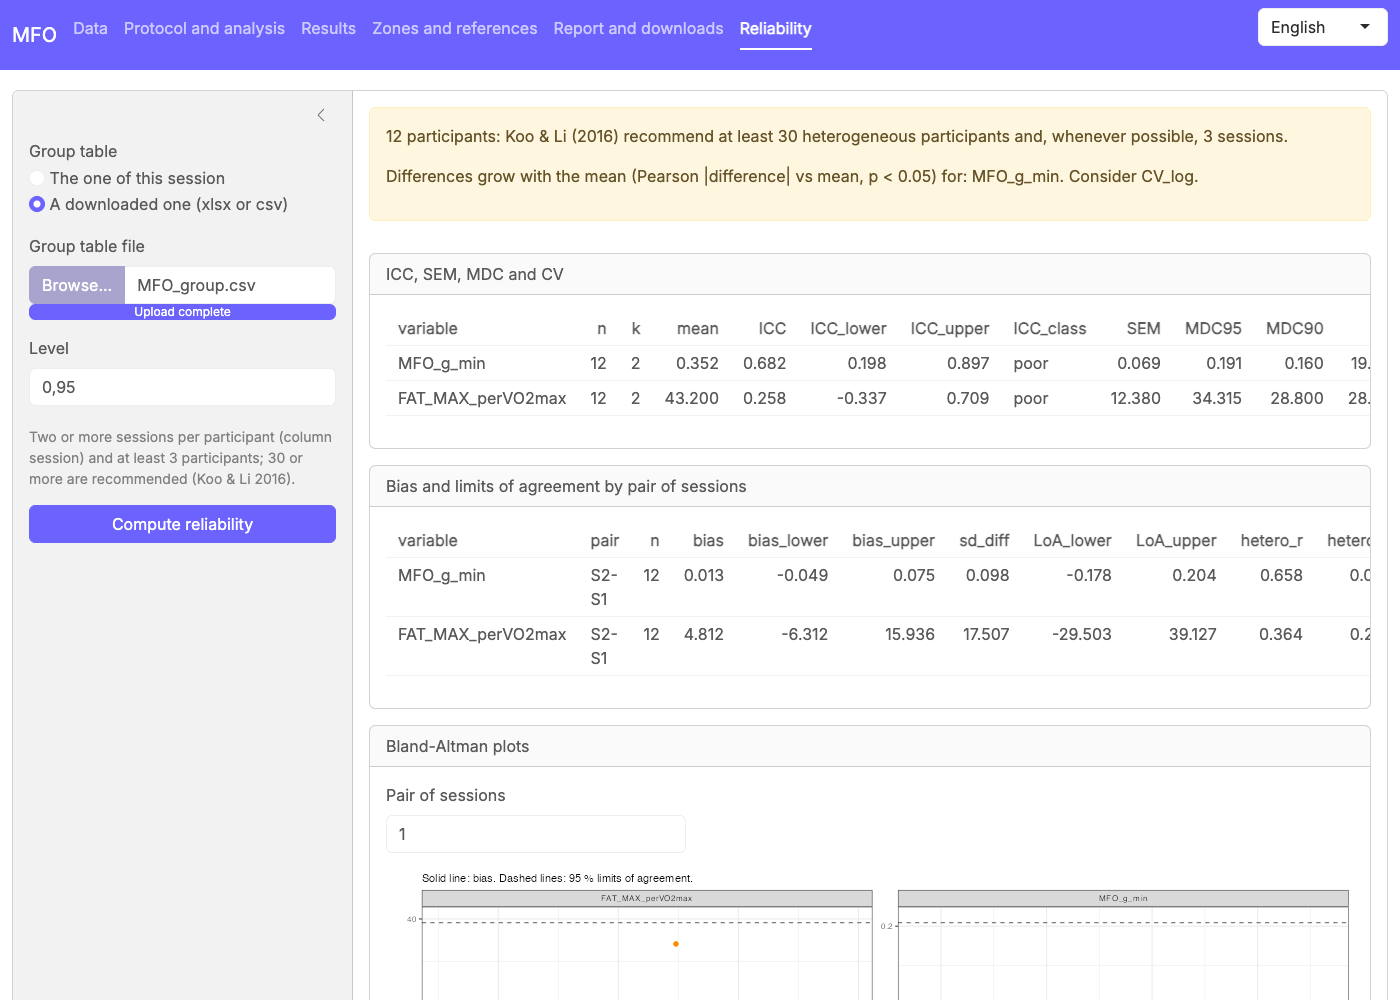
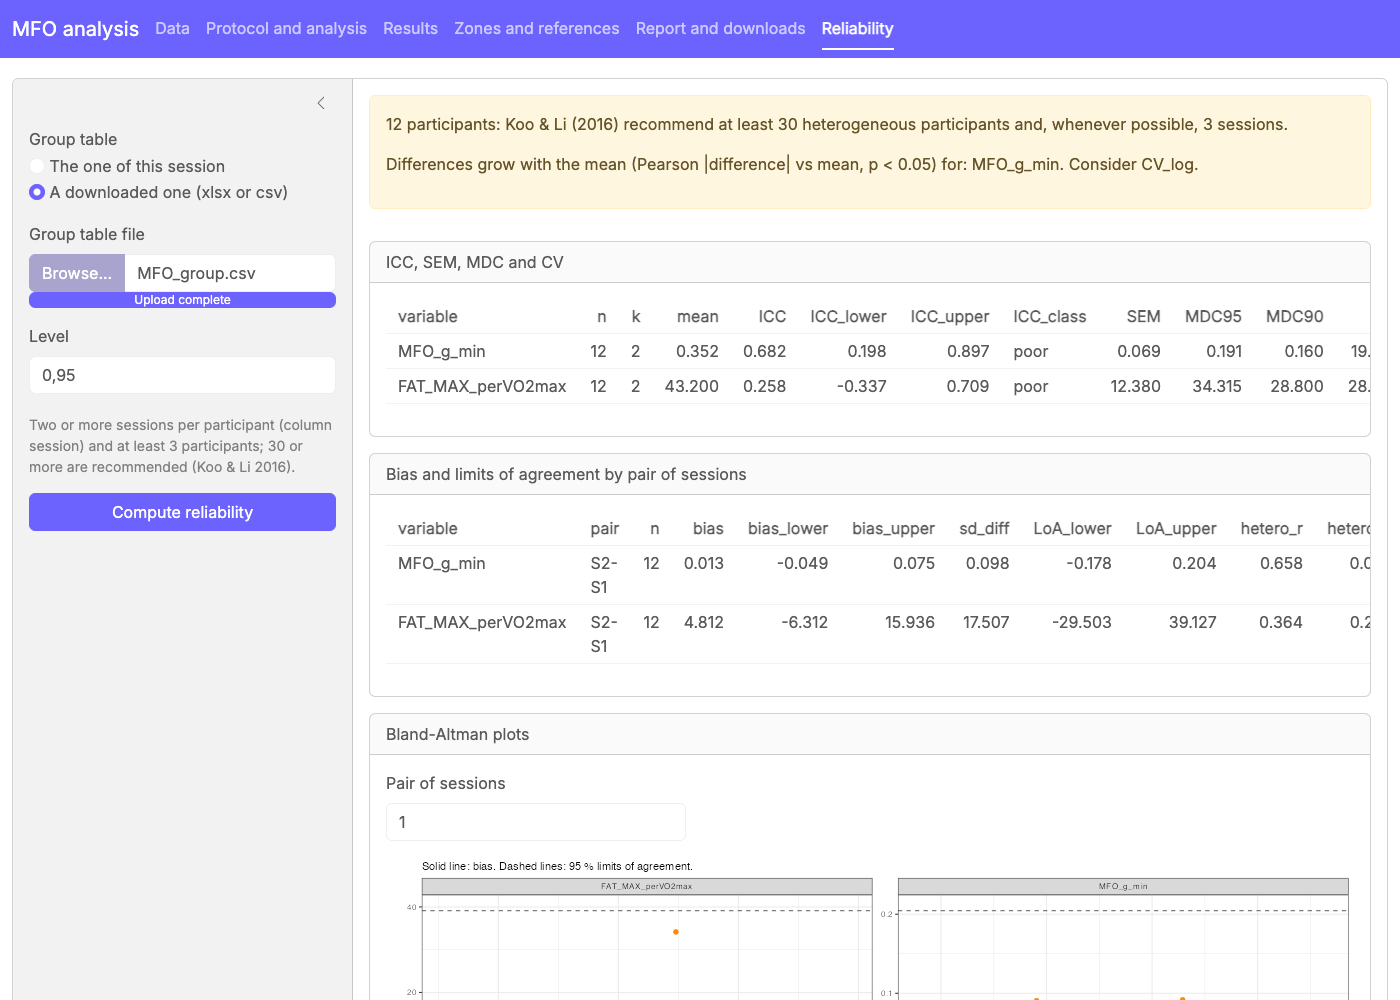
docs: manual, vignette, README and screenshots for the second review
The manual (English only) describes the tables of the Data tab, the steps
of the fit under the oxidation curve, the figure downloads and Save as
PDF; vignette("app") and NEWS likewise. Screenshots regenerated with the
"MFO analysis" navbar; README rebuilt (its plots now have the VO₂max axis
with only the 2 as subscript). SPEC 10.

diff --git a/NEWS.md b/NEWS.md
@@ -23,13 +23,16 @@
 * `run_app()` opens the Shiny app of the package (SPEC 10, #24), which only
   calls the package's functions and runs locally. `shiny` and `bslib` are
   in Suggests. Interface in English (all strings in `inst/app/i18n.csv`, one
-  column per language, so a translation is one more column). This first step has the Data tab: example
+  column per language, so a translation is one more column). The navbar reads "MFO analysis". The Data tab: example
   data, csv/xlsx files with column mapping or analyser exports (several
   files or a zip), phases by table or by cuts dragged on the VO2 plot, and
-  every message and warning of the reading shown as an alert. The Protocol
+  every message and warning of the reading shown as an alert, and the tables
+  read shown per phase next to the VO₂ plot. Every plot can be downloaded as
+  PNG at 300 dpi, PDF or SVG (180 mm wide by default). The Protocol
   and analysis tab sets the arguments of `MFO_protocol()`, `MFO()` and
-  `MFO_kinetics()`; the Results tab shows the curve (hover for the nearest
-  step), the results table, confidence intervals on demand, the SIN
+  `MFO_kinetics()`; the Results tab shows the curve with the steps of the
+  fit always under it (downloadable; `porc_VO2` shown as %VO₂max), the
+  results table, confidence intervals on demand, the SIN
   kinetics, the warnings of the run as quality alerts, and adds the
   participant to the session's group table (the columns of `MFOs()` plus
   session and analysis date; participant codes only, no names). The Zones
@@ -38,7 +41,8 @@
   of `reference_MFO` with their group, N and the differences from the
   reference test. The package's warnings are worded from the templates of
   the app. The Report and downloads tab
-  writes one self-contained HTML report (curve, results, intervals, SIN,
+  writes one self-contained HTML report, with a Save as PDF button that
+  opens the print dialog of the browser (curve, results, steps, intervals, SIN,
   zones and references, alerts, a methods paragraph with its references,
   and a footer with version, commit, dates, phase cuts and seed) and the
   group table as xlsx or csv. The Reliability tab runs `MFO_reliability()`

diff --git a/README.md b/README.md
@@ -117,8 +117,7 @@ the package. It needs two suggested packages:
 
 ``` r
 install.packages(c("shiny", "bslib"))
-MFO::run_app()          # English
-MFO::run_app("es")      # Spanish
+MFO::run_app()
 ```
 
 The app runs on your computer and does not send your data anywhere. It
